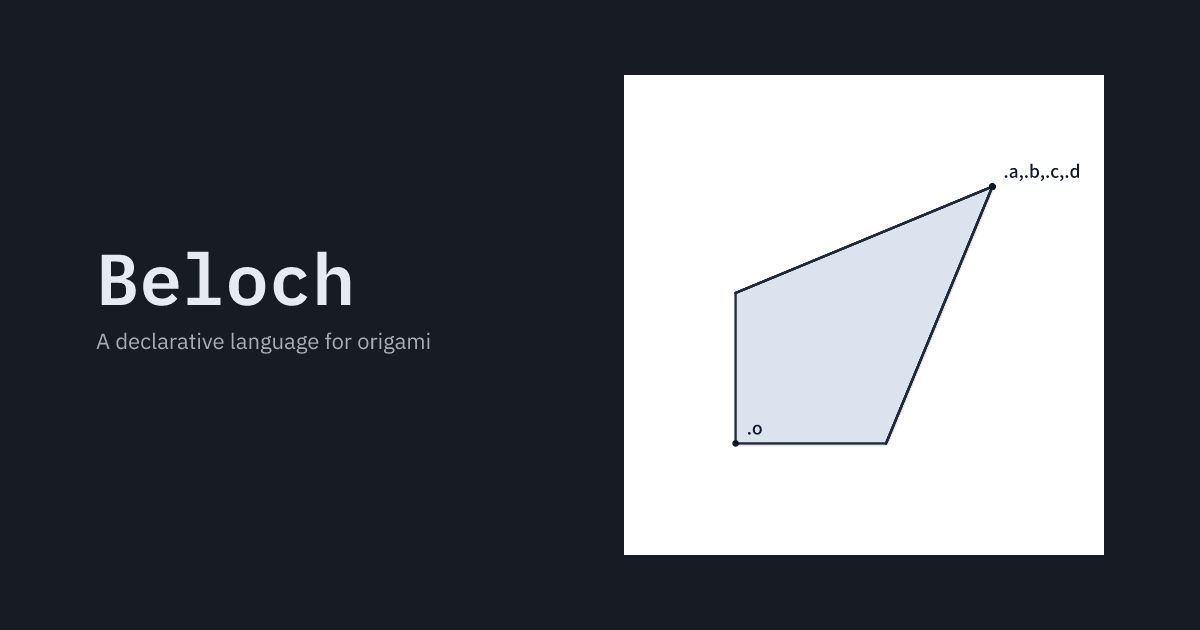
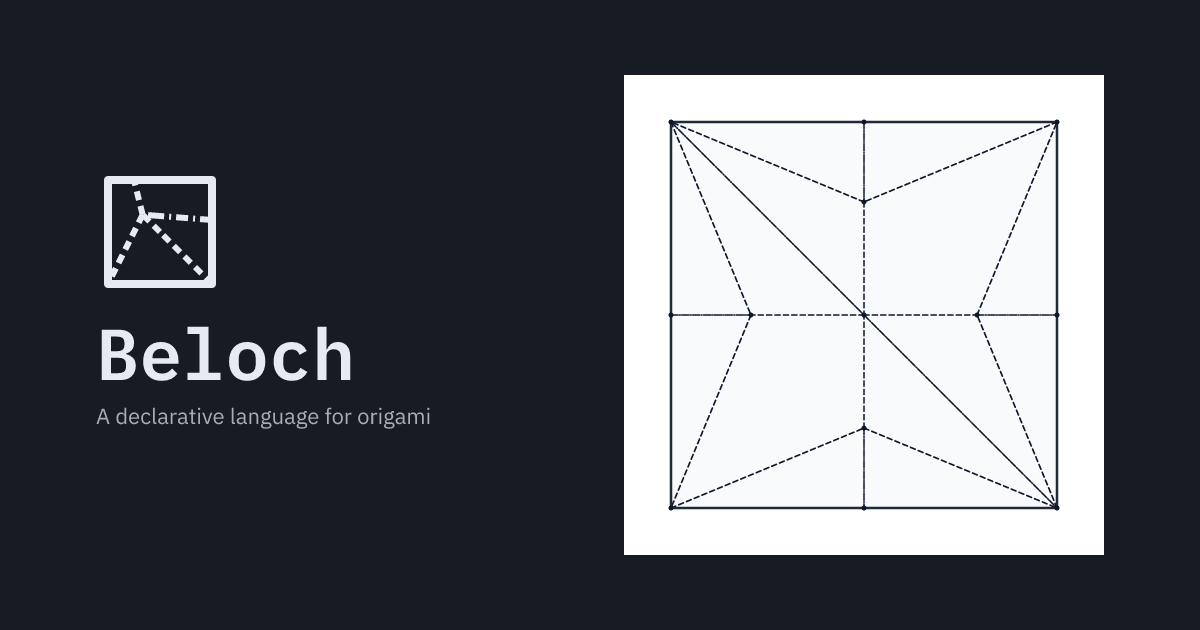
feat(www): social preview shows the mark and a crease pattern
Flat-folded from above the bird base is a quadrilateral, so the folded
view showed nothing; the crease pattern is what the project makes.

diff --git a/packages/www/scripts/generate-og-image.ts b/packages/www/scripts/generate-og-image.ts
@@ -25,11 +25,12 @@
 // resolve "IBM Plex Mono, monospace" against, the same font stack the
 // site's CSS already asks browsers for.
 import { execFileSync } from "node:child_process";
-import { writeFileSync } from "node:fs";
+import { readFileSync, writeFileSync } from "node:fs";
 import { fileURLToPath } from "node:url";
 import { join } from "node:path";
 
 const repoRoot = join(fileURLToPath(import.meta.url), "..", "..", "..", "..");
+const markPath = join(repoRoot, "packages", "www", "public", "brand", "mark.svg");
 const sourceBel = join(repoRoot, "examples", "bases", "bird-base.bel");
 const fold2svgBin = join(repoRoot, "packages", "render-2d", "render-svg", "bin", "fold2svg.ts");
 const outPath = join(repoRoot, "packages", "www", "public", "og-image.png");
@@ -54,60 +55,45 @@ function run(cmd: string, args: string[], input?: string): string {
 }
 
 const fold = run("beloch", ["fold", sourceBel]);
-const foldedSvg = run("bun", [fold2svgBin, "-", "--view", "folded"], fold);
+// The crease pattern, not the folded state: flat-folded from above, the bird
+// base is a quadrilateral and shows nothing. Labels are stripped from the
+// markup rather than asked off, because --labels "" leaves the corner names in.
+const cpSvg = run("bun", [fold2svgBin, "-", "--view", "cp", "--labels", ""], fold)
+  .replace(/<text\b[^>]*>[\s\S]*?<\/text>/g, "");
 
-// Crop to the fold's own geometry rather than the full render canvas (which
-// is mostly blank paper around a folded base far smaller than the sheet) by
-// reading every coordinate resvg would draw and padding around their bounds.
-const coords: [number, number][] = [];
-for (const m of foldedSvg.matchAll(/points="([^"]+)"/g)) {
-  for (const pair of m[1]!.trim().split(/\s+/)) {
-    const [x, y] = pair.split(",").map(Number);
-    coords.push([x!, y!]);
-  }
-}
-for (const m of foldedSvg.matchAll(/<(?:line|circle)\b[^>]*>/g)) {
-  const tag = m[0];
-  const attr = (name: string) => Number(tag.match(new RegExp(`${name}="([-\\d.]+)"`))?.[1]);
-  if (tag.startsWith("<line")) {
-    coords.push([attr("x1"), attr("y1")], [attr("x2"), attr("y2")]);
-  } else {
-    coords.push([attr("cx"), attr("cy")]);
-  }
-}
-const xs = coords.map(([x]) => x);
-const ys = coords.map(([, y]) => y);
-// Padding accounts for corner/crease-name labels, which sit just outside the
-// shape's own coordinates.
-const PAD = 100;
-const cropX0 = Math.min(...xs) - PAD;
-const cropY0 = Math.min(...ys) - PAD;
-const cropWidth = Math.max(...xs) - cropX0 + PAD;
-const cropHeight = Math.max(...ys) - cropY0 + PAD;
-
-// Drop the fold's own full-canvas background rect (it covers the whole
-// 572x572 render, not just the cropped region) and draw a card-sized one in
-// its place, in the same pre-transform coordinate space as the crop.
-const innerMarkup = foldedSvg
+// The CP render is a square canvas the pattern already fills, so it needs no
+// cropping: drop its white backdrop and place the whole square as the card.
+const CANVAS = 572;
+const innerMarkup = cpSvg
   .replace(/^<svg[^>]*>/, "")
   .replace(/<\/svg>\s*$/, "")
   .replace(/<rect width="\d+(?:\.\d+)?" height="\d+(?:\.\d+)?" fill="white"\/>/, "");
-const cardBg =
-  `<rect x="${cropX0}" y="${cropY0}" width="${cropWidth}" height="${cropHeight}" fill="white"/>`;
 
-// Fit the cropped fold into a card on the right, vertically centered,
-// leaving the left side for the wordmark.
 const cardHeight = HEIGHT - 150;
-const cardWidth = cardHeight * (cropWidth / cropHeight);
-const scale = cardHeight / cropHeight;
-const cardX = WIDTH - cardWidth - 96;
+const scale = cardHeight / CANVAS;
+const cardX = WIDTH - cardHeight - 96;
 const cardY = (HEIGHT - cardHeight) / 2;
+const cardBg = `<rect width="${CANVAS}" height="${CANVAS}" fill="white"/>`;
+
+// The mark, from brand/mark.svg, which fold2logo.ts renders out of
+// brand/mark.bel. currentColor has no meaning inside a standalone SVG, so the
+// ink value is substituted in.
+const MARK_SIZE = 128;
+const MARK_Y = 168;
+const markInner = readFileSync(markPath, "utf8")
+  .replace(/^<svg[^>]*>/, "")
+  .replace(/<\/svg>\s*$/, "")
+  .replaceAll("currentColor", INK)
+  .trim();
 
 const composed = `<svg xmlns="http://www.w3.org/2000/svg" width="${WIDTH}" height="${HEIGHT}" viewBox="0 0 ${WIDTH} ${HEIGHT}">
   <rect width="${WIDTH}" height="${HEIGHT}" fill="${PANEL_BG}"/>
-  <text x="96" y="${HEIGHT / 2 - 10}" font-family="IBM Plex Mono, monospace" font-size="72" font-weight="600" fill="${INK}">Beloch</text>
-  <text x="96" y="${HEIGHT / 2 + 34}" font-family="IBM Plex Sans, sans-serif" font-size="22" fill="${INK}" opacity="0.7">A declarative language for origami</text>
-  <g transform="translate(${cardX - cropX0 * scale}, ${cardY - cropY0 * scale}) scale(${scale})">
+  <g transform="translate(96, ${MARK_Y}) scale(${MARK_SIZE / 64})" fill="none" stroke="${INK}" stroke-linecap="round">
+    ${markInner}
+  </g>
+  <text x="96" y="${MARK_Y + MARK_SIZE + 84}" font-family="IBM Plex Mono, monospace" font-size="72" font-weight="600" fill="${INK}">Beloch</text>
+  <text x="96" y="${MARK_Y + MARK_SIZE + 128}" font-family="IBM Plex Sans, sans-serif" font-size="22" fill="${INK}" opacity="0.7">A declarative language for origami</text>
+  <g transform="translate(${cardX}, ${cardY}) scale(${scale})">
     ${cardBg}
     ${innerMarkup}
   </g>
